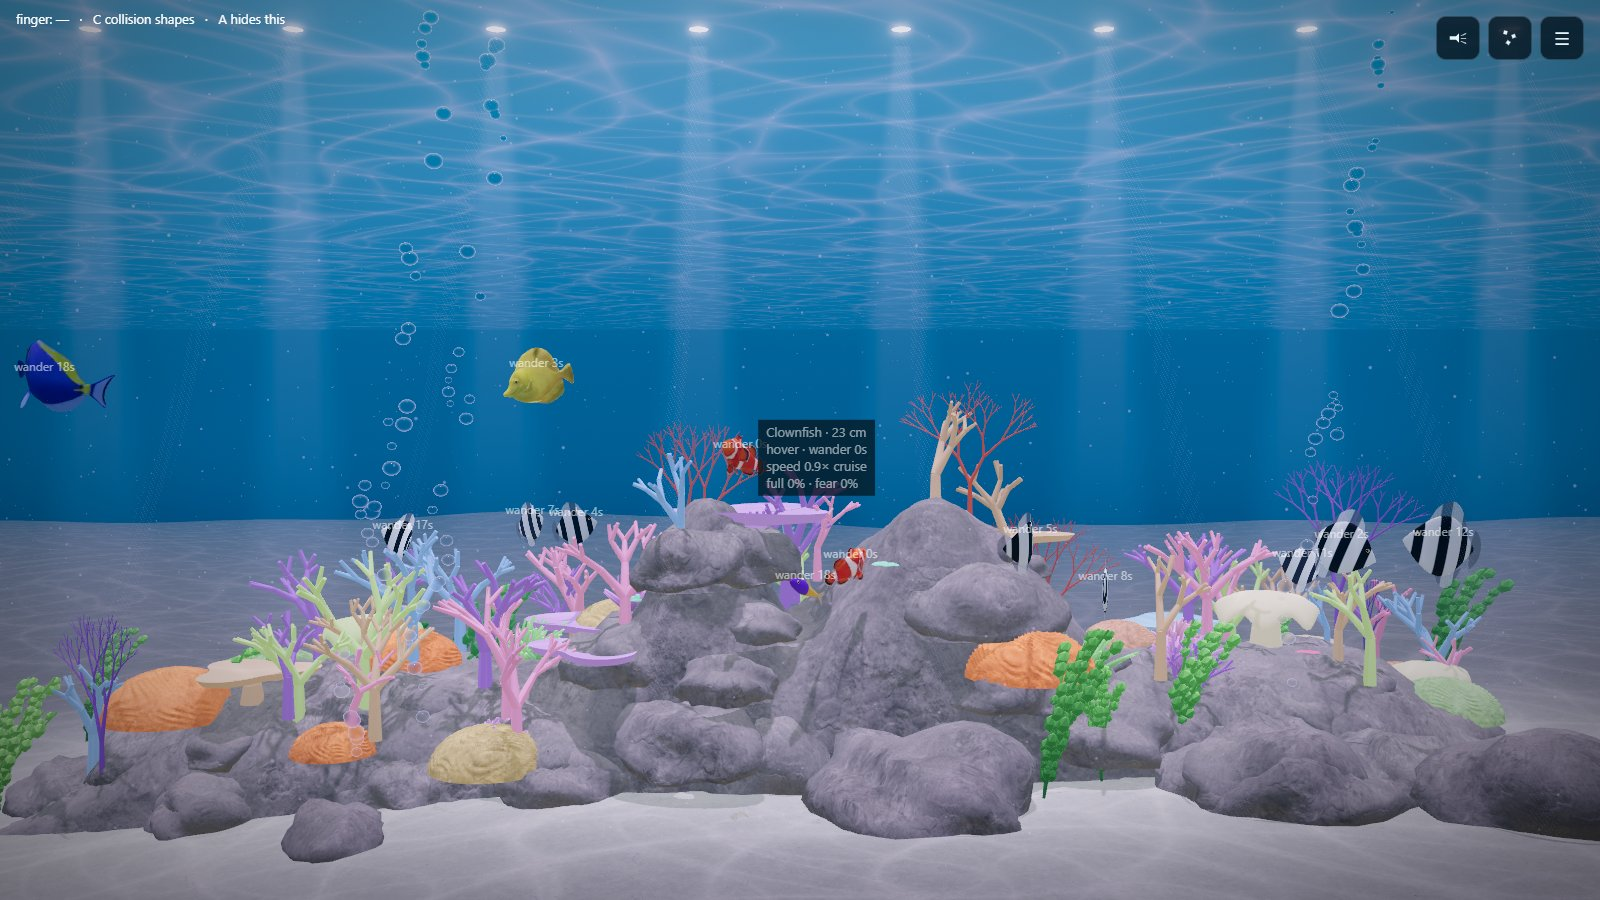
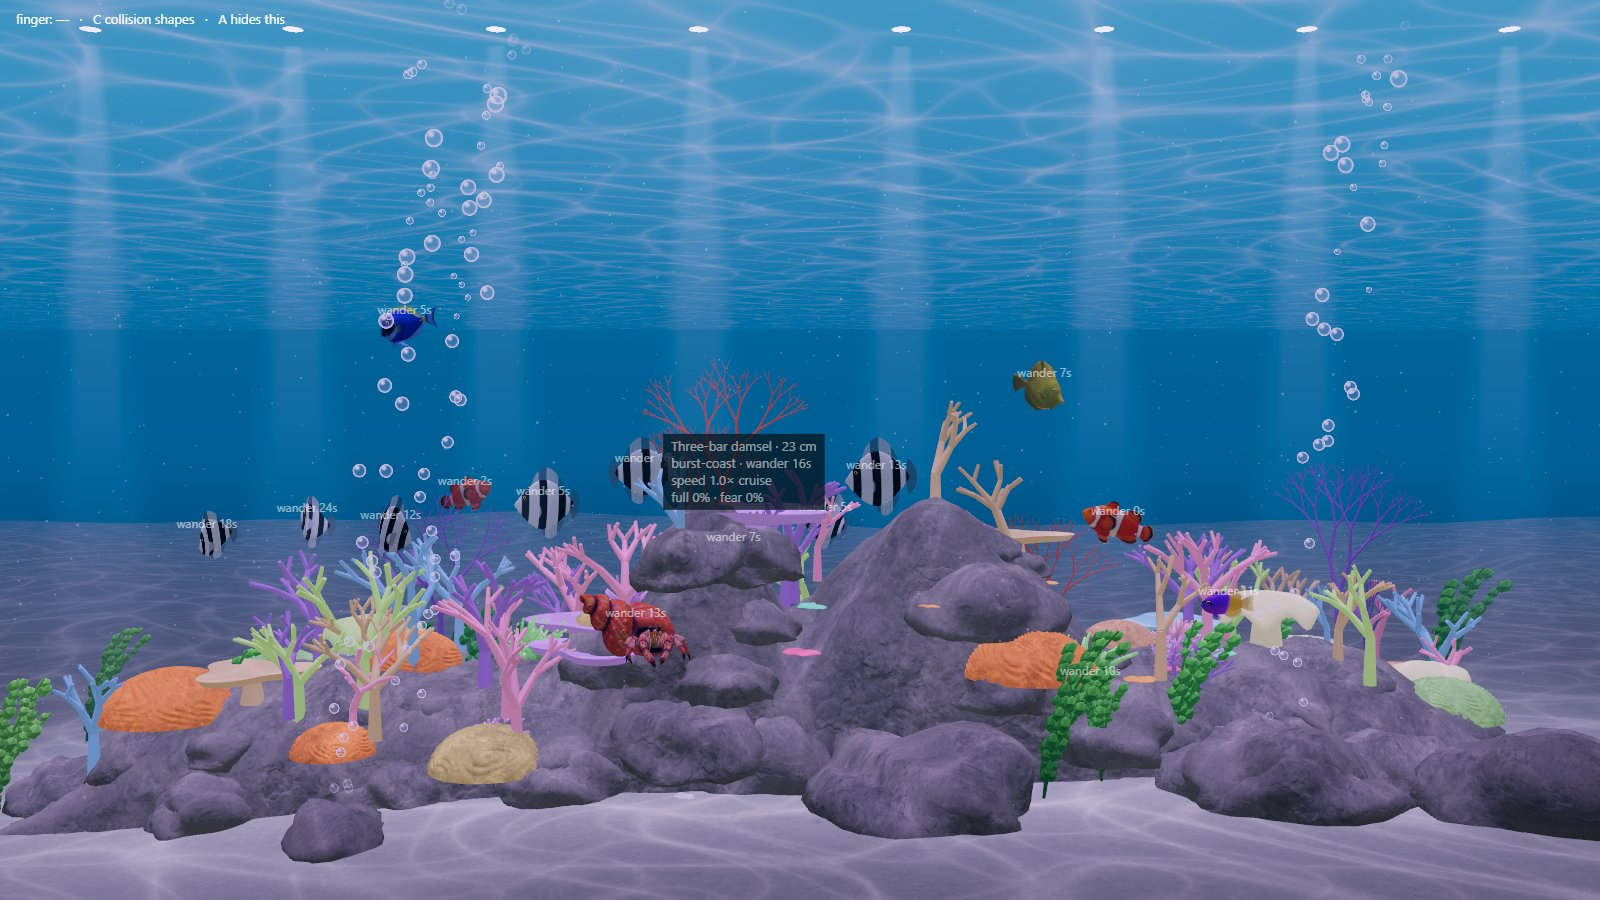
chore(docs): regenerate gallery scenes, card thumbnails and visual snapshots

diff --git a/e2e/swimming.spec.ts b/e2e/swimming.spec.ts
@@ -16,7 +16,7 @@ import { createSimulation } from "../src/sim/simulation";
 
 /** A bundled species for each style, as assigned in public/species.json. */
 const EXAMPLES: readonly (readonly [SwimStyleId, string])[] = [
-  ["cruise", "blue-tang"],
+  ["cruise", "sardine"],
   ["burst-coast", "three-bar-damsel"],
   ["hover", "royal-gramma"],
   ["glide", "moorish-idol"],
